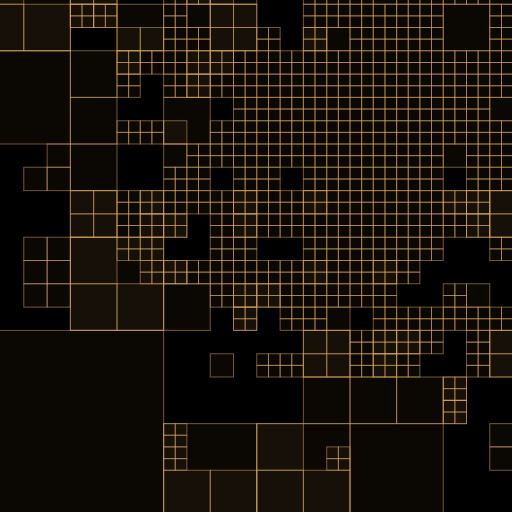
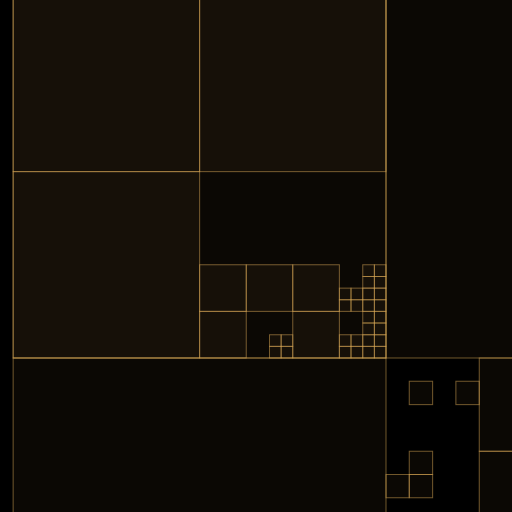
simplifying a bit

Changed region(s): [[0.0, 0.0, 1.0, 1.0], [0.125, 0.1875, 0.1562, 0.2188]]

diff --git a/index.ts b/index.ts
@@ -27,9 +27,9 @@ function iberville(rawOpts: ICreateCityOpts): Q.IPromise<void> {
             river: {enable: false},
             removeIntersectingElements: false,
             streetGrid: {
-                minimumBlockSizeKilometers: .3,
+                minimumBlockSizeKilometers: .6,
                 maxBlockSizeKilometers: Infinity,
-                noiseSubdivisionBaseThreshold: .1,
+                noiseSubdivisionBaseThreshold: .3,
 
                 perturb: {enabled: false},
                 mergeStreetBlocks: {enabled: false}
